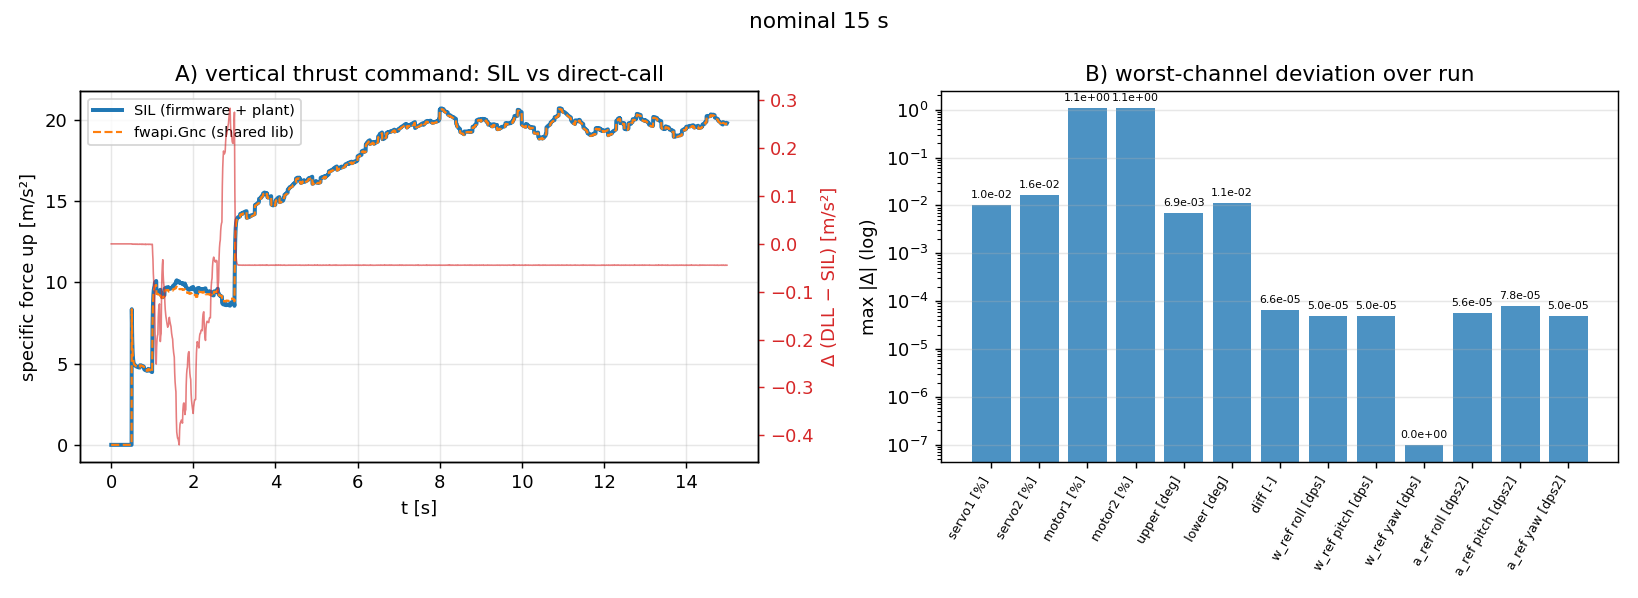
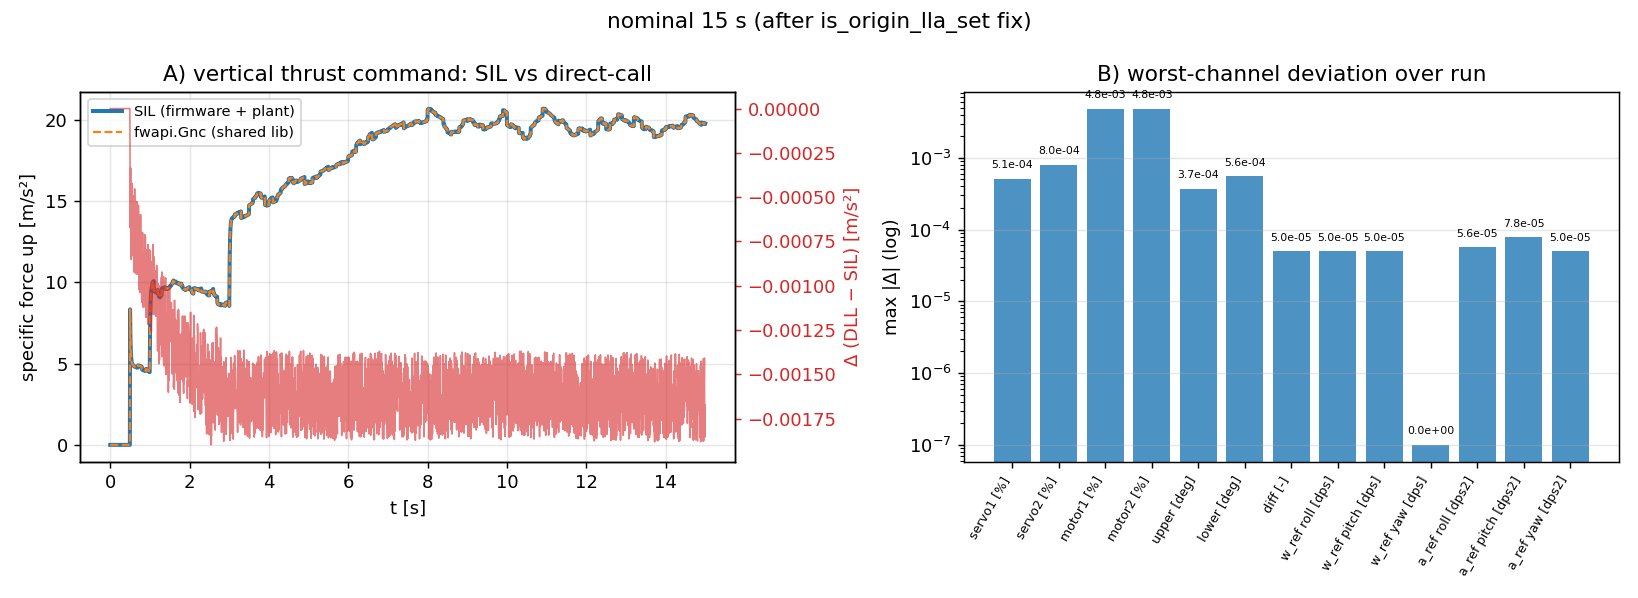
test(sil): 对拍判定分组（控制量/诊断量）并刷新证据
- C4b/C6 只覆盖控制输出（执行器/摆角/差速/角速率指令/角加速度）；
  alt_err/tgt_vz 作为只读诊断单独限幅（0.5 m / 0.05 m/s），
  因为它们在手动模式保留历史值、不能当控制等价信号
- 证据：5 个 profile 的 JSON 与图全部刷新（修复后）
- 结果：C4b 5/5 通过（最差 0.0057%）、C6 5/5 通过、诊断量 5/5 在限内

diff --git a/TandemVec-EKF-Report/sim/check_fw_gnc_parity.py b/TandemVec-EKF-Report/sim/check_fw_gnc_parity.py
@@ -121,6 +121,12 @@ def main():
             "cos_tilt": (out["thrust_cos_tilt"], float(r["cos_tilt"])),
             "thr_cmd": (out["throttle_cmd_pct"], float(r["thr_cmd"])),
         }
+        # 诊断量单独分组：alt_err/tgt_vz 只在 AUTO 分支刷新，手动模式保留历史值，
+        # 两条实现各自停在不同的最后值上 ⇒ 不能当控制等价判据（2026-10-29）。
+        diag = {
+            "alt_err": (out["alt_error_m"], float(r["alt_err"])),
+            "tgt_vz": (out["target_vz_mps"], float(r["tgt_vz"])),
+        }
         for i in range(3):
             pairs[f"or{i}"] = (out["omega_ref_dps"][i], float(r[f"or{i}"]))
             pairs[f"ar{i}"] = (out["alpha_ref_dps2"][i], float(r[f"ar{i}"]))
@@ -129,11 +135,17 @@ def main():
             maxd[k] = max(maxd.get(k, 0.0), d)
             if d > args.tol and first_bad is None:
                 first_bad = (t, k, a, b, d)
+        for k, (a, b) in diag.items():
+            maxd[k] = max(maxd.get(k, 0.0), abs(a - b))
         if int(out["flight_mode"]) != int(r["mode"]):
             mode_bad += 1
 
     check(step_fail == 0, f"C3 fw_gnc_step 失败 {step_fail} 拍")
-    worst = max(maxd.items(), key=lambda kv: kv[1]) if maxd else ("-", 0.0)
+    # C4b 的预登记口径是**控制输出**（ch/摆角/差速/角速率指令/角加速度）；
+    # alt_err/tgt_vz 是后加的只读诊断，不进 C4b，单独用 diag_tol 判。
+    ctrl_keys = list(pairs.keys()) if rows else []
+    worst = max(((k, maxd.get(k, 0.0)) for k in ctrl_keys),
+                key=lambda kv: kv[1]) if ctrl_keys else ("-", 0.0)
     print("max |Δ|:", {k: round(v, 6) for k, v in sorted(maxd.items())})
     check(mode_bad == 0, f"C4a 模式逐拍一致（不一致 {mode_bad} 拍）")
 
@@ -155,11 +167,17 @@ def main():
         "ar0": 1.0, "ar1": 1.0, "ar2": 1.0,
         "sfup": 0.01, "cos_tilt": 1e-3, "thr_cmd": 0.5,
     }
+    diag_tol = {"alt_err": 0.5, "tgt_vz": 0.05}  # 诊断量（非控制输出）
     over = {k: (maxd.get(k, 0.0), tol) for k, tol in tolerances.items()
             if maxd.get(k, 0.0) > tol}
     if over:
         print("C6 超差通道:", {k: (round(v, 6), t) for k, (v, t) in over.items()})
     check(not over, "C6 工程等价（执行器 ≤1%、摆角 ≤0.5°、角速率 ≤0.1 dps、角加速度 ≤1 dps²）")
+    diag_over = {k: maxd.get(k, 0.0) for k, tol in diag_tol.items()
+                 if maxd.get(k, 0.0) > tol}
+    print(("[PASS] " if not diag_over else "[WARN] ") +
+          "诊断量（非控制）：alt_err ≤0.5 m、tgt_vz ≤0.05 m/s" +
+          ("" if not diag_over else f" 超差 {diag_over}"))
 
     if args.json:
         import json

diff --git a/TandemVec_FCS/test_host/fw_sil/fw_sil_env_main.cpp b/TandemVec_FCS/test_host/fw_sil/fw_sil_env_main.cpp
@@ -895,7 +895,7 @@ static int runRealNavLoop(const RealNavConfig &cfg, int seed, float seconds,
           "rc0,rc1,rc2,rc3,rc4,rc5,rc6,rc7,rc8,alt_up,target_alt,link,fs,"
           "mode,ch1,ch2,ch3,ch4,delta_f,delta_t,dw,or0,or1,or2,ar0,ar1,ar2,"
           "rn,re,rd,vn,ve,vd,roll,pitch,heading,gx_rps,gy_rps,gz_rps,"
-          "hdg_ok,pos_deg,gnss_age,sfup,cos_tilt,thr_cmd\n");
+          "hdg_ok,pos_deg,gnss_age,sfup,cos_tilt,thr_cmd,alt_err,tgt_vz\n");
     }
   }
   if (g_trace_fast_path != nullptr)
@@ -1245,7 +1245,7 @@ static int runRealNavLoop(const RealNavConfig &cfg, int seed, float seconds,
             "%d,%.4f,%.4f,%.4f,%.4f,%.4f,%.4f,%.4f,"
             "%.4f,%.4f,%.4f,%.4f,%.4f,%.4f,"
             "%.4f,%.4f,%.4f,%.4f,%.4f,%.4f,"
-            "%.6f,%.6f,%.6f,%.9f,%.9f,%.9f,%d,%d,%.4f,%.6f,%.6f,%.4f\n",
+            "%.6f,%.6f,%.6f,%.9f,%.9f,%.9f,%d,%d,%.4f,%.6f,%.6f,%.4f,%.4f,%.4f\n",
             t, AHRS_Packet.Qw, AHRS_Packet.Qx, AHRS_Packet.Qy, AHRS_Packet.Qz,
             current_omega_dps_body_filtered.x, current_omega_dps_body_filtered.y,
             current_omega_dps_body_filtered.z,
@@ -1273,7 +1273,9 @@ static int runRealNavLoop(const RealNavConfig &cfg, int seed, float seconds,
             static_cast<double>(g_gnss_outage_age_s),
             static_cast<double>(gnc_tel.specific_force_up_mps2),
             static_cast<double>(gnc_tel.thrust_cos_tilt),
-            static_cast<double>(gnc_tel.throttle_cmd_pct));
+            static_cast<double>(gnc_tel.throttle_cmd_pct),
+            static_cast<double>(gnc_tel.alt_error_m),
+            static_cast<double>(gnc_tel.target_vz_mps));
       }
     }
     if (g_sil_nav_debug_imu_failed)
